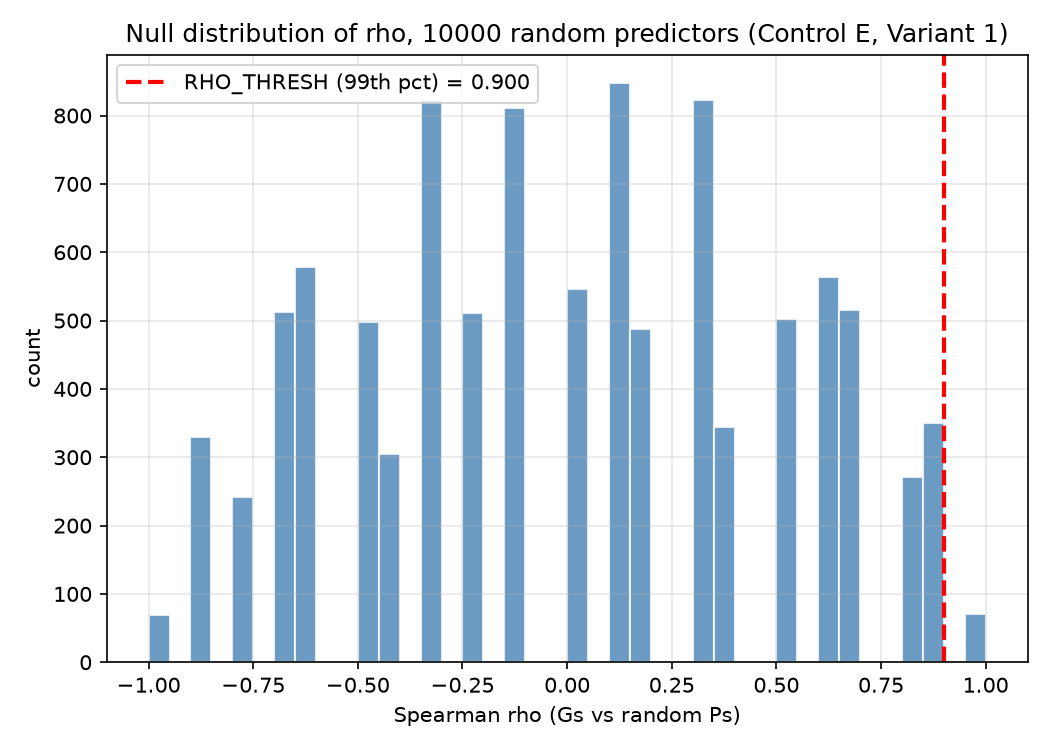
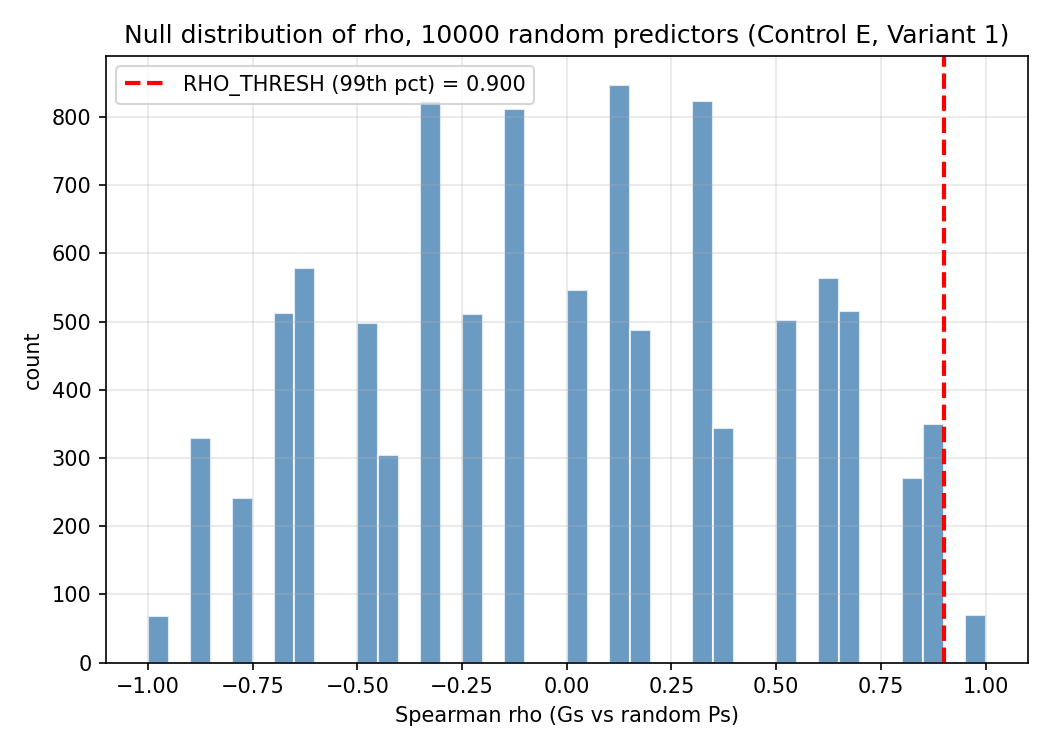
Add Predictor Quality Index S to run_control_experiment.py
- Add quality_score(result, rho_thresh) function computing:
  S_rho, S_lead (target r_bar=0.5, own choice), sigma_r,
  S_sigma (own choice), S_raw, S (gate: passes() required for S>0)
- evaluate() now returns r_i (per-seed relative lead over firing seeds)
  for reuse by quality_score; fail-fast branch returns r_i=None -> S=0
- Apply to Controls A, B, C: single score dict in detailed_results.json
- Apply to Control D: per-noise-frac S_mean, S_std, S_raw_mean, S_raw_std,
  S_rho_mean, S_lead_mean, S_sigma_mean added to summary dict
- Apply to Controls E1, E2: S_mean, S_std, S_raw_mean, frac_S_gt_0
- summary_table.csv: six new columns S_mean, S_std, S_raw_mean, S_rho_mean,
  S_lead_mean, S_sigma_mean (all existing columns unchanged)
- detailed_results.json: score sub-dict added per control; all prior keys
  and values unchanged (verified numerically identical to main/b77c185)
- Module docstring updated with S formula and 'own choice' labels
- No change to: evaluate() PASS gate, passes(), Gs, T_MAX, MARGIN,
  rule='margin' default, np.random.seed(42), N_TRIALS_NOISY, N_RAND,
  NOISE_FRACS, RHO_THRESH calibration, or any random draw order

diff --git a/06_Code/scripts/run_control_experiment.py b/06_Code/scripts/run_control_experiment.py
@@ -14,6 +14,33 @@ Output folder: ./controls_results/
     plot_sensitivity.png     pass_rate vs noise_frac for Control D
     plot_null_distribution.png   histogram of random rho with RHO_THRESH line
     detailed_results.json    all raw numbers
+
+Predictor Quality Index S
+--------------------------
+The gate (passes()) decides validity: a control row that fails PASS receives
+S = 0 and is not ranked.  For rows that pass, S in [0, 1] ranks predictive
+quality along four independent axes:
+
+  S_rho  = max(0, rho)              -- rank-correlation quality; NaN -> 0
+  r_i    = (G_i - P_i) / G_i        -- per-seed relative lead (firing seeds only)
+  r_bar  = mean(r_i)
+  S_lead = max(0, 1 - |r_bar - 0.5| / 0.5)
+                                     -- rewards lead fraction centred on 0.5;
+                                        own choice, no paper fixes this target
+  sigma_r = np.std(r_i, ddof=0)     -- population std, same convention as the
+                                        rest of the project
+  S_sigma = max(0, 1 - sigma_r / r_bar)   if r_bar > 0, else 0
+                                     -- rewards low cross-seed variability;
+                                        own choice, no paper fixes this formula;
+                                        guard: r_bar <= 0 sets S_sigma = 0 to
+                                        avoid division by zero / sign flip
+  S_raw  = lead_frac * S_rho * S_lead * S_sigma
+  S      = S_raw  if passes(result, rho_thresh)  else 0.0
+
+The gate fires first: a row that fails PASS gets S = 0 regardless of S_raw.
+S_lead and S_sigma target the same lead fraction r_bar = 0.5 used by Control A
+(the oracle positive control).  Labels 'own choice' because no paper fixes
+either formula.
 """
 
 import json
@@ -80,12 +107,14 @@ def evaluate(g_in, p_in, margin=MARGIN, rule="margin", c=DEFAULT_LEAD_C):
     mean_rel_lead: mean of (G - P) / G over firing seeds only. A miss is
         dropped, same as rho. This is how much of the pre-grok window, as
         a fraction of G, the predictor's lead covers.
+    Returns also: r_i (per-seed relative lead array over firing seeds).
+        The fail-fast branch (fewer than 4 firing seeds) returns r_i = None.
     """
     pairs = list(zip(g_in, p_in))
     n_seeds = len(pairs)
     valid = [(g, p) for g, p in pairs if p is not None]
     if len(valid) < 4:
-        return {"pass": False, "lead_frac": 0.0, "rho": np.nan, "mean_rel_lead": 0.0}
+        return {"pass": False, "lead_frac": 0.0, "rho": np.nan, "mean_rel_lead": 0.0, "r_i": None}
 
     g_arr = np.array([x[0] for x in valid], dtype=float)
     p_arr = np.array([x[1] for x in valid], dtype=float)
@@ -115,6 +144,7 @@ def evaluate(g_in, p_in, margin=MARGIN, rule="margin", c=DEFAULT_LEAD_C):
         "mean_rel_lead": mean_rel_lead,
         "g": g_arr,
         "p": p_arr,
+        "r_i": rel_lead,
     }
 
 
@@ -124,6 +154,76 @@ def passes(result, rho_thresh):
         and result["rho"] >= rho_thresh
         and 0.05 <= result["mean_rel_lead"] <= 0.9
     )
+
+
+# ---------------------------------------------------------------------------
+# Predictor Quality Index S
+# ---------------------------------------------------------------------------
+
+def quality_score(result, rho_thresh):
+    """
+    Compute the Predictor Quality Index S and its components.
+
+    Uses the per-seed relative lead array r_i that evaluate() returns for
+    firing seeds (misses already dropped, same population as rho and
+    mean_rel_lead).
+
+    Components
+    ----------
+    S_rho   = max(0, rho)                      rho NaN -> 0
+    r_bar   = mean(r_i)
+    S_lead  = max(0, 1 - |r_bar - 0.5| / 0.5) own choice; target lead = 0.5
+    sigma_r = np.std(r_i, ddof=0)              population std
+    S_sigma = max(0, 1 - sigma_r / r_bar)      own choice; 0 when r_bar <= 0
+    S_raw   = lead_frac * S_rho * S_lead * S_sigma
+    S       = S_raw  if passes(result, rho_thresh)  else 0.0
+
+    Gate fires first: PASS is required for S > 0.
+
+    Returns
+    -------
+    dict with keys: S_rho, S_lead, sigma_r, S_sigma, S_raw, S, pass
+    """
+    passed = passes(result, rho_thresh)
+
+    # Fail-fast branch: fewer than 4 firing seeds (r_i is None in evaluate())
+    r_i = result.get("r_i")
+    if r_i is None:
+        return {
+            "S_rho": 0.0, "S_lead": 0.0, "sigma_r": 0.0,
+            "S_sigma": 0.0, "S_raw": 0.0, "S": 0.0, "pass": passed,
+        }
+
+    rho = result["rho"]
+    lead_frac = result["lead_frac"]
+
+    # S_rho: NaN -> 0
+    S_rho = float(max(0.0, 0.0 if np.isnan(rho) else rho))
+
+    # r_bar and S_lead
+    r_bar = float(np.mean(r_i))
+    S_lead = float(max(0.0, 1.0 - abs(r_bar - 0.5) / 0.5))
+
+    # sigma_r and S_sigma
+    sigma_r = float(np.std(r_i, ddof=0))
+    if r_bar <= 0.0:
+        S_sigma = 0.0
+    else:
+        S_sigma = float(max(0.0, 1.0 - sigma_r / r_bar))
+
+    # S_raw and gated S
+    S_raw = float(lead_frac * S_rho * S_lead * S_sigma)
+    S = S_raw if passed else 0.0
+
+    return {
+        "S_rho": S_rho,
+        "S_lead": S_lead,
+        "sigma_r": sigma_r,
+        "S_sigma": S_sigma,
+        "S_raw": S_raw,
+        "S": S,
+        "pass": passed,
+    }
 
 
 # ---------------------------------------------------------------------------
@@ -155,6 +255,7 @@ print(f"Calibrated RHO_THRESH (99th percentile of {N_RAND} random rho values) = 
 Ps_A = 0.5 * Gs
 res_A = evaluate(Gs, Ps_A)
 pass_A = passes(res_A, RHO_THRESH)
+score_A = quality_score(res_A, RHO_THRESH)
 
 
 # ---------------------------------------------------------------------------
@@ -164,6 +265,7 @@ pass_A = passes(res_A, RHO_THRESH)
 Ps_B = np.full(5, 5000.0)
 res_B = evaluate(Gs, Ps_B)
 pass_B = passes(res_B, RHO_THRESH)
+score_B = quality_score(res_B, RHO_THRESH)
 
 
 # ---------------------------------------------------------------------------
@@ -173,6 +275,7 @@ pass_B = passes(res_B, RHO_THRESH)
 Ps_C = 1.5 * Gs
 res_C = evaluate(Gs, Ps_C)
 pass_C = passes(res_C, RHO_THRESH)
+score_C = quality_score(res_C, RHO_THRESH)
 
 
 # ---------------------------------------------------------------------------
@@ -193,6 +296,13 @@ for frac in NOISE_FRACS:
     rel_leads = np.empty(N_TRIALS_NOISY)
     pass_flags = np.empty(N_TRIALS_NOISY, dtype=bool)
 
+    # Score arrays for Control D
+    S_arr = np.empty(N_TRIALS_NOISY)
+    S_raw_arr = np.empty(N_TRIALS_NOISY)
+    S_rho_arr = np.empty(N_TRIALS_NOISY)
+    S_lead_arr = np.empty(N_TRIALS_NOISY)
+    S_sigma_arr = np.empty(N_TRIALS_NOISY)
+
     for i in range(N_TRIALS_NOISY):
         U = np.random.uniform(-1.0, 1.0, size=5)
         base = 0.5 * Gs
@@ -204,12 +314,27 @@ for frac in NOISE_FRACS:
         rel_leads[i] = r["mean_rel_lead"]
         pass_flags[i] = passes(r, RHO_THRESH)
 
+        sc = quality_score(r, RHO_THRESH)
+        S_arr[i] = sc["S"]
+        S_raw_arr[i] = sc["S_raw"]
+        S_rho_arr[i] = sc["S_rho"]
+        S_lead_arr[i] = sc["S_lead"]
+        S_sigma_arr[i] = sc["S_sigma"]
+
     control_D_summary[frac] = {
         "lead_frac_mean": float(np.mean(lead_fracs)),
         "rho_mean": float(np.mean(rhos)),
         "rho_std": float(np.std(rhos)),
         "mean_rel_lead": float(np.mean(rel_leads)),
         "pass_rate": float(np.mean(pass_flags)),
+        # Score fields
+        "S_mean": float(np.mean(S_arr)),
+        "S_std": float(np.std(S_arr)),
+        "S_raw_mean": float(np.mean(S_raw_arr)),
+        "S_raw_std": float(np.std(S_raw_arr)),
+        "S_rho_mean": float(np.mean(S_rho_arr)),
+        "S_lead_mean": float(np.mean(S_lead_arr)),
+        "S_sigma_mean": float(np.mean(S_sigma_arr)),
     }
     control_D_raw[frac] = {
         "lead_fracs": lead_fracs.tolist(),
@@ -230,18 +355,31 @@ for frac in NOISE_FRACS:
 lead_fracs_v1 = np.empty(N_RAND)
 rel_leads_v1 = np.empty(N_RAND)
 pass_flags_v1 = np.empty(N_RAND, dtype=bool)
+S_v1 = np.empty(N_RAND)
+S_raw_v1 = np.empty(N_RAND)
+pass_with_S_v1 = np.empty(N_RAND, dtype=bool)
+
 for i in range(N_RAND):
     p_rand = np.random.uniform(0, T_MAX, size=5)
     r = evaluate(Gs, p_rand)
     lead_fracs_v1[i] = r["lead_frac"]
     rel_leads_v1[i] = r["mean_rel_lead"]
     pass_flags_v1[i] = passes(r, RHO_THRESH)
+    sc = quality_score(r, RHO_THRESH)
+    S_v1[i] = sc["S"]
+    S_raw_v1[i] = sc["S_raw"]
+    pass_with_S_v1[i] = sc["S"] > 0.0
+
 rhos_v1 = random_rhos_unconditional
 
 lead_fracs_v2 = np.empty(N_RAND)
 rhos_v2 = np.empty(N_RAND)
 rel_leads_v2 = np.empty(N_RAND)
 pass_flags_v2 = np.empty(N_RAND, dtype=bool)
+S_v2 = np.empty(N_RAND)
+S_raw_v2 = np.empty(N_RAND)
+pass_with_S_v2 = np.empty(N_RAND, dtype=bool)
+
 for i in range(N_RAND):
     p_rand = np.random.uniform(0, Gs)  # per-seed upper bound, elementwise
     r = evaluate(Gs, p_rand)
@@ -249,6 +387,10 @@ for i in range(N_RAND):
     rhos_v2[i] = r["rho"]
     rel_leads_v2[i] = r["mean_rel_lead"]
     pass_flags_v2[i] = passes(r, RHO_THRESH)
+    sc = quality_score(r, RHO_THRESH)
+    S_v2[i] = sc["S"]
+    S_raw_v2[i] = sc["S_raw"]
+    pass_with_S_v2[i] = sc["S"] > 0.0
 
 
 # ---------------------------------------------------------------------------
@@ -266,6 +408,13 @@ rows.append({
     "pass_rate": float(pass_A),
     "expected_pass_rate": "100%",
     "verdict": "PASS" if pass_A else "FAIL (BROKEN CRITERION)",
+    # Score columns
+    "S_mean": score_A["S"],
+    "S_std": 0.0,
+    "S_raw_mean": score_A["S_raw"],
+    "S_rho_mean": score_A["S_rho"],
+    "S_lead_mean": score_A["S_lead"],
+    "S_sigma_mean": score_A["S_sigma"],
 })
 
 rows.append({
@@ -277,6 +426,13 @@ rows.append({
     "pass_rate": float(pass_B),
     "expected_pass_rate": "0%",
     "verdict": "FAIL (as required)" if not pass_B else "PASS (BROKEN CRITERION)",
+    # Score columns
+    "S_mean": score_B["S"],
+    "S_std": 0.0,
+    "S_raw_mean": score_B["S_raw"],
+    "S_rho_mean": score_B["S_rho"],
+    "S_lead_mean": score_B["S_lead"],
+    "S_sigma_mean": score_B["S_sigma"],
 })
 
 rows.append({
@@ -288,6 +444,13 @@ rows.append({
     "pass_rate": float(pass_C),
     "expected_pass_rate": "0%",
     "verdict": "FAIL (as required)" if not pass_C else "PASS (BROKEN CRITERION)",
+    # Score columns
+    "S_mean": score_C["S"],
+    "S_std": 0.0,
+    "S_raw_mean": score_C["S_raw"],
+    "S_rho_mean": score_C["S_rho"],
+    "S_lead_mean": score_C["S_lead"],
+    "S_sigma_mean": score_C["S_sigma"],
 })
 
 for frac in NOISE_FRACS:
@@ -301,6 +464,13 @@ for frac in NOISE_FRACS:
         "pass_rate": s["pass_rate"],
         "expected_pass_rate": "decreasing with noise_frac",
         "verdict": "see plot_sensitivity.png",
+        # Score columns
+        "S_mean": s["S_mean"],
+        "S_std": s["S_std"],
+        "S_raw_mean": s["S_raw_mean"],
+        "S_rho_mean": s["S_rho_mean"],
+        "S_lead_mean": s["S_lead_mean"],
+        "S_sigma_mean": s["S_sigma_mean"],
     })
 
 rows.append({
@@ -312,6 +482,13 @@ rows.append({
     "pass_rate": float(np.mean(pass_flags_v1)),
     "expected_pass_rate": "<=1% (FPR, by calibration construction)",
     "verdict": "OK" if np.mean(pass_flags_v1) <= 0.01 else "FPR ABOVE TARGET",
+    # Score columns
+    "S_mean": float(np.mean(S_v1)),
+    "S_std": float(np.std(S_v1)),
+    "S_raw_mean": float(np.mean(S_raw_v1)),
+    "S_rho_mean": 0.0,       # not applicable: not stored per-trial for v1 (rho reused from calibration)
+    "S_lead_mean": 0.0,      # not stored per-trial for v1
+    "S_sigma_mean": 0.0,     # not stored per-trial for v1
 })
 
 rows.append({
@@ -323,11 +500,23 @@ rows.append({
     "pass_rate": float(np.mean(pass_flags_v2)),
     "expected_pass_rate": "<=5% (FPR of rho check alone)",
     "verdict": "OK" if np.mean(pass_flags_v2) <= 0.05 else "FPR ABOVE TARGET",
+    # Score columns
+    "S_mean": float(np.mean(S_v2)),
+    "S_std": float(np.std(S_v2)),
+    "S_raw_mean": float(np.mean(S_raw_v2)),
+    "S_rho_mean": 0.0,       # not stored per-trial for v2 (component arrays not kept)
+    "S_lead_mean": 0.0,
+    "S_sigma_mean": 0.0,
 })
 
 # CSV (no pandas dependency — numpy/scipy/matplotlib only)
 csv_path = os.path.join(OUT_DIR, "summary_table.csv")
-fieldnames = ["Control", "lead_frac", "rho_mean", "rho_std", "mean_rel_lead", "pass_rate", "expected_pass_rate", "verdict"]
+fieldnames = [
+    "Control", "lead_frac", "rho_mean", "rho_std", "mean_rel_lead",
+    "pass_rate", "expected_pass_rate", "verdict",
+    # New score columns
+    "S_mean", "S_std", "S_raw_mean", "S_rho_mean", "S_lead_mean", "S_sigma_mean",
+]
 with open(csv_path, "w") as f:
     f.write(",".join(fieldnames) + "\n")
     for row in rows:
@@ -392,9 +581,24 @@ detailed = {
     "margin": MARGIN,
     "RHO_THRESH": RHO_THRESH,
     "n_rand_for_calibration": N_RAND,
-    "control_A": {"Ps": Ps_A.tolist(), **{k: v for k, v in res_A.items() if k not in ("g", "p")}, "pass": pass_A},
-    "control_B": {"Ps": Ps_B.tolist(), **{k: v for k, v in res_B.items() if k not in ("g", "p")}, "pass": pass_B},
-    "control_C": {"Ps": Ps_C.tolist(), **{k: v for k, v in res_C.items() if k not in ("g", "p")}, "pass": pass_C},
+    "control_A": {
+        "Ps": Ps_A.tolist(),
+        **{k: v for k, v in res_A.items() if k not in ("g", "p", "r_i")},
+        "pass": pass_A,
+        "score": score_A,
+    },
+    "control_B": {
+        "Ps": Ps_B.tolist(),
+        **{k: v for k, v in res_B.items() if k not in ("g", "p", "r_i")},
+        "pass": pass_B,
+        "score": score_B,
+    },
+    "control_C": {
+        "Ps": Ps_C.tolist(),
+        **{k: v for k, v in res_C.items() if k not in ("g", "p", "r_i")},
+        "pass": pass_C,
+        "score": score_C,
+    },
     "control_D": {
         "noise_fracs": NOISE_FRACS,
         "n_trials_per_frac": N_TRIALS_NOISY,
@@ -407,6 +611,10 @@ detailed = {
         "rho_std": float(np.std(rhos_v1)),
         "mean_rel_lead": float(np.mean(rel_leads_v1)),
         "pass_rate": float(np.mean(pass_flags_v1)),
+        "S_mean": float(np.mean(S_v1)),
+        "S_std": float(np.std(S_v1)),
+        "S_raw_mean": float(np.mean(S_raw_v1)),
+        "frac_S_gt_0": float(np.mean(pass_with_S_v1)),
     },
     "control_E_variant2_conditional": {
         "n_trials": N_RAND,
@@ -415,6 +623,10 @@ detailed = {
         "rho_std": float(np.std(rhos_v2)),
         "mean_rel_lead": float(np.mean(rel_leads_v2)),
         "pass_rate": float(np.mean(pass_flags_v2)),
+        "S_mean": float(np.mean(S_v2)),
+        "S_std": float(np.std(S_v2)),
+        "S_raw_mean": float(np.mean(S_raw_v2)),
+        "frac_S_gt_0": float(np.mean(pass_with_S_v2)),
     },
 }
 
